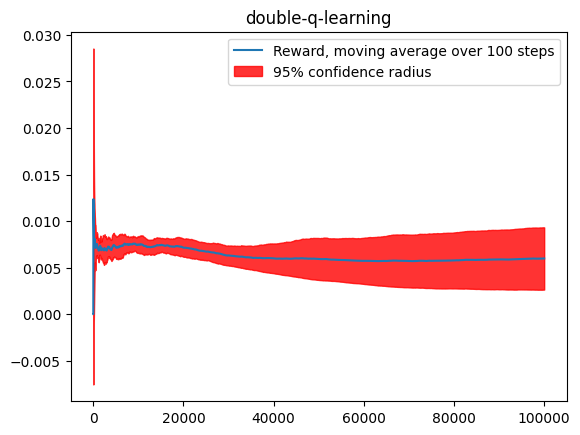
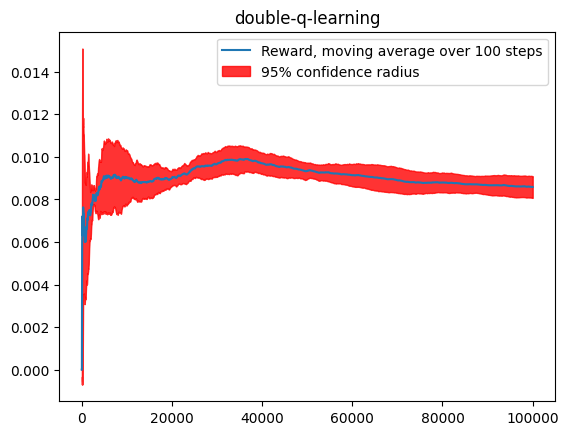
New Results

diff --git a/run_experiment.py b/run_experiment.py
@@ -85,13 +85,13 @@ state_dim = env.observation_space.n
 
 
 
-learners = ["sarsa", "expected-sarsa", "q-learning", "double-q-learning"]
+learners = ["q-learning", "double-q-learning", "sarsa", "expected-sarsa"]
 for learner in learners:
     nrOfExperiments = 5
     ys = []
     q_tables = []
     for experiment in range(nrOfExperiments):
-        agent = agentfile.Agent(state_dim, action_dim, learner=learner, initialization="zero")
+        agent = agentfile.Agent(state_dim, action_dim, learner=learner, initialization="optimistic")
         rewards = []
         observation = env.reset()
         step = 0
@@ -123,7 +123,7 @@ for learner in learners:
     confRadius = np.asarray([1.96*np.std([ys[experiment][i] for experiment in range(nrOfExperiments)])/np.sqrt(nrOfExperiments)\
                 for i in range(len(ys[0]))])
 
-    #plot_q_values_map(q_tables[0], env, 4)
+    plot_q_values_map(q_tables[0], env, 4)
 
     fig, ax = plt.subplots()
     ax.plot(avgReward, label="Reward, moving average over 100 steps")
@@ -131,6 +131,6 @@ for learner in learners:
     ax.legend()
     ax.set_title(learner)
     #plt.show()
-    fig.savefig("Results/FrozenLake/"+learner+"ZeroNonSlip", bbox_inches="tight")
+    fig.savefig("Results/FrozenLake/Optimistic/"+learner+"Optimistic1", bbox_inches="tight")
 #print(variance)
 env.close()

diff --git a/agent.py b/agent.py
@@ -19,7 +19,7 @@ class Agent(object):
         self.epsilon = 0.05
         self.alpha = 0.2
 
-        c = 0.1 # The q-value used in heuristic initilization, 
+        c = 1 # The q-value used in heuristic initilization, 
                 # and scalar for random initilization (so could function as optimistic initialization).
         
         self.algorithm = learner # q-learning, double-q-learning, sarsa or expected-sarsa
@@ -33,7 +33,7 @@ class Agent(object):
             case "sarsa":
                 self.q_table = self.initializeQtable(initialization, c)
             case "expected-sarsa":
-                self.q_table = np.zeros((self.state_space, self.action_space))
+                self.q_table = self.initializeQtable(initialization, c)
             case _:
                 print("WARNING: Invalid algorithm. Please specify learning algorithm to be used used")
                 print("For this run, defaulting to q-learning")
